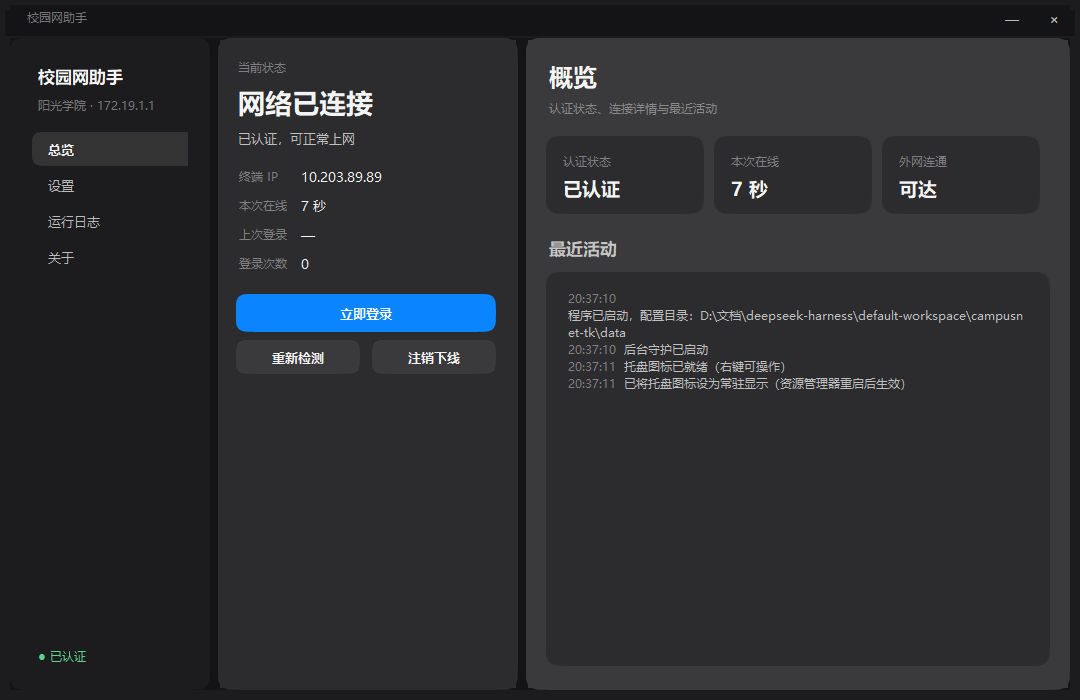
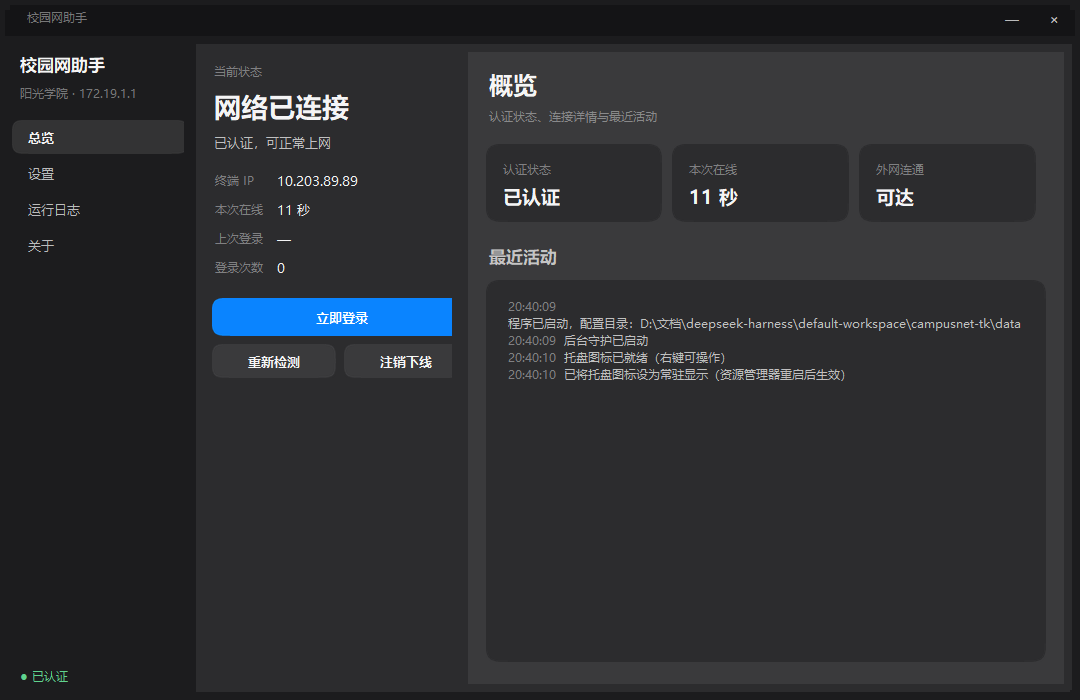
style: 内层改成层层嵌套（中栏浮于侧栏、内容嵌在中栏里）

diff --git a/tk_app.py b/tk_app.py
@@ -700,20 +700,19 @@ class App(tk.Tk):
 
     # ------------------------------------------------------------ 布局
     def _build(self):
+        """层叠结构：窗口底 → 中栏卡片 → 内容卡片，一层压一层。"""
         self._build_titlebar()
-        body = tk.Frame(self, bg=BASE)
-        body.pack(fill="both", expand=True, padx=10, pady=(2, 10))
+        body = tk.Frame(self, bg=DEEP)
+        body.pack(fill="both", expand=True)
 
-        side_card = Card(body, bg=BASE, fill=DEEP, radius=RADIUS_CARD, padding=10)
-        side_card.pack(side="left", fill="y", padx=(0, 8))
-        side_card.configure(width=200)
-        side_card.pack_propagate(False)
-        side = side_card.body
-        side.configure(width=180)
+        # 第一层：侧栏（与窗口底色同色，作为最底层）
+        side = tk.Frame(body, bg=DEEP, width=196)
+        side.pack(side="left", fill="y")
+        side.pack_propagate(False)
         tk.Label(side, text="校园网助手", bg=DEEP, fg=T1_D, font=F_HEAD,
-                 anchor="w", padx=16).pack(fill="x", pady=(14, 0))
+                 anchor="w", padx=18).pack(fill="x", pady=(14, 0))
         tk.Label(side, text="阳光学院 · 172.19.1.1", bg=DEEP, fg=T3_D, font=F_SMALL,
-                 anchor="w", padx=16).pack(fill="x", pady=(2, 14))
+                 anchor="w", padx=18).pack(fill="x", pady=(2, 14))
 
         for key, label in (("overview", "总览"), ("settings", "设置"),
                            ("logs", "运行日志"), ("about", "关于")):
@@ -722,18 +721,22 @@ class App(tk.Tk):
             self._navs[key] = item
 
         self.side_status = tk.Label(side, text="● 检测中", bg=DEEP, fg=T3_D,
-                                    font=F_SMALL, anchor="w", padx=16)
+                                    font=F_SMALL, anchor="w", padx=18)
         self.side_status.pack(side="bottom", fill="x", pady=(0, 12))
 
-        mid_card = Card(body, bg=BASE, fill=MID, radius=RADIUS_CARD, padding=2)
-        mid_card.pack(side="left", fill="y", padx=(0, 8))
-        mid_card.configure(width=300)
-        mid_card.pack_propagate(False)
+        # 第二层：中栏卡片（浮在侧栏之上，四周留 8px）
+        mid_card = Card(body, bg=DEEP, fill=MID, radius=RADIUS_CARD, padding=0)
+        mid_card.pack(side="left", fill="both", expand=True, padx=(0, 6), pady=6)
         mid = mid_card.body
-        self._build_status(mid)
 
-        content_card = Card(body, bg=BASE, fill=SURFACE, radius=RADIUS_CARD, padding=2)
-        content_card.pack(side="left", fill="both", expand=True)
+        status = tk.Frame(mid, bg=MID, width=272)
+        status.pack(side="left", fill="y")
+        status.pack_propagate(False)
+        self._build_status(status)
+
+        # 第三层：内容卡片（嵌在中栏卡片里，右上下一圈 8px 露出中栏色）
+        content_card = Card(mid, bg=MID, fill=SURFACE, radius=RADIUS_CARD - 2, padding=0)
+        content_card.pack(side="left", fill="both", expand=True, padx=(0, 6), pady=6)
         content = content_card.body
         self._content = content
         self._build_views(content)
@@ -819,7 +822,7 @@ class App(tk.Tk):
 
     def _page_head(self, parent, title, sub=""):
         tk.Label(parent, text=title, bg=SURFACE, fg=T1_S, font=(FONT, 18, "bold"),
-                 anchor="w").pack(fill="x", padx=18, pady=(14, 2))
+                 anchor="w").pack(fill="x", padx=16, pady=(10, 2))
         if sub:
             tk.Label(parent, text=sub, bg=SURFACE, fg=T3_S, font=F_SMALL,
                      anchor="w").pack(fill="x", padx=18)
@@ -981,7 +984,7 @@ class App(tk.Tk):
         self.v_autoclose = self._make_switch(pair, "关闭退出", "", side="left")
 
         bar = tk.Frame(outer, bg=SURFACE)
-        bar.pack(fill="x", padx=18, pady=(6, 8))
+        bar.pack(fill="x", padx=16, pady=(4, 6))
         Button(bar, "保存设置", self._save_settings, bg=SURFACE, fill=ACCENT,
                accent=True, width=140, height=36).pack(side="right")
 
@@ -1010,7 +1013,7 @@ class App(tk.Tk):
         if side:
             row.pack(side=side, fill="x", expand=True, pady=3, padx=(0, 8))
         else:
-            row.pack(fill="x", pady=3)
+            row.pack(fill="x", pady=2)
         txt = tk.Frame(row, bg=SURFACE)
         txt.pack(side="left", fill="x", expand=True)
         tk.Label(txt, text=label, bg=SURFACE, fg=T1_S, font=F_BODY, anchor="w").pack(fill="x")

diff --git a/README.md b/README.md
@@ -40,12 +40,12 @@
 
 | 约束 | 落实方式 |
 | --- | --- |
-| 灰阶 | 底板 `#141416`（衬托圆角卡片）+ 三级灰：侧栏 `#1c1c1e` / 中栏 `#2c2c2e` / 内容区 `#3a3a3c` |
+| 灰阶 | 三级灰逐层加深：侧栏（窗口底）`#1c1c1e` → 中栏卡片 `#2c2c2e` → 内容卡片 `#3a3a3c` |
 | 无渐变 | 所有元素纯色填充，无 `gradient` |
 | 无发光 / 无大阴影 | 不使用任何 shadow，窗口靠圆角与色差成形 |
 | 无装饰动画 | 只有颜色瞬切（200ms 级观感），无位移/缩放 |
 | 无描边 | **按你的要求去掉了 1px 边框**，按钮、选框全靠底色明暗区分 |
-| 圆角 | **超椭圆（squircle, n≈4）**：窗口用 DWM 圆角（系统合成器绘制，**边缘抗锯齿**）；三栏面板作为圆角卡片浮在底板上（22px）；卡片/日志区 22px、按钮与输入框 18px、导航 16px、标题栏按钮 14px；内部元素 4× 超采样抗锯齿 |
+| 圆角 | 窗口用 **DWM 圆角**（系统合成器绘制，**边缘抗锯齿**）；中栏/内容卡片超椭圆 22px/20px 逐层内嵌；卡片与日志区 22px、按钮与输入框 18px、导航 16px、标题栏按钮 14px，全部 4× 超采样抗锯齿 |
 | 字体 | **统一系统黑体（Microsoft YaHei UI）**，只有字重差异（Regular / Bold），不引入任何需授权的第三方字体 |
 | 文本层次 | 白 95% / 70% / 40% 三档（按底色混合计算） |
 | 悬停 | 底色提亮 5%～9%，无位移、无缩放 |
@@ -75,7 +75,8 @@ pip install pillow
 
 窗口行为：
 
-- **三栏是圆角卡片**：侧栏 / 中栏 / 内容区各自圆角、之间留 8px 间隙，浮在深一档的底板上；
+- **层叠结构**：侧栏是最底层（与窗口同色），中栏卡片浮在其上、四周留 6px，
+  内容卡片再嵌进中栏里、右上下一圈 6px 露出中栏色——一层压一层，不是并排三块；
 - **可调整大小**：拖动窗口任意边缘/四角即可拉伸（最小 900×560），布局跟随重排；
 - **内容可滚动**：设置页等内容超出时用鼠标滚轮滚动，滚动条隐藏；
 - **点 × 只收进右下角托盘**，程序继续守护，托盘单击可重新打开；
